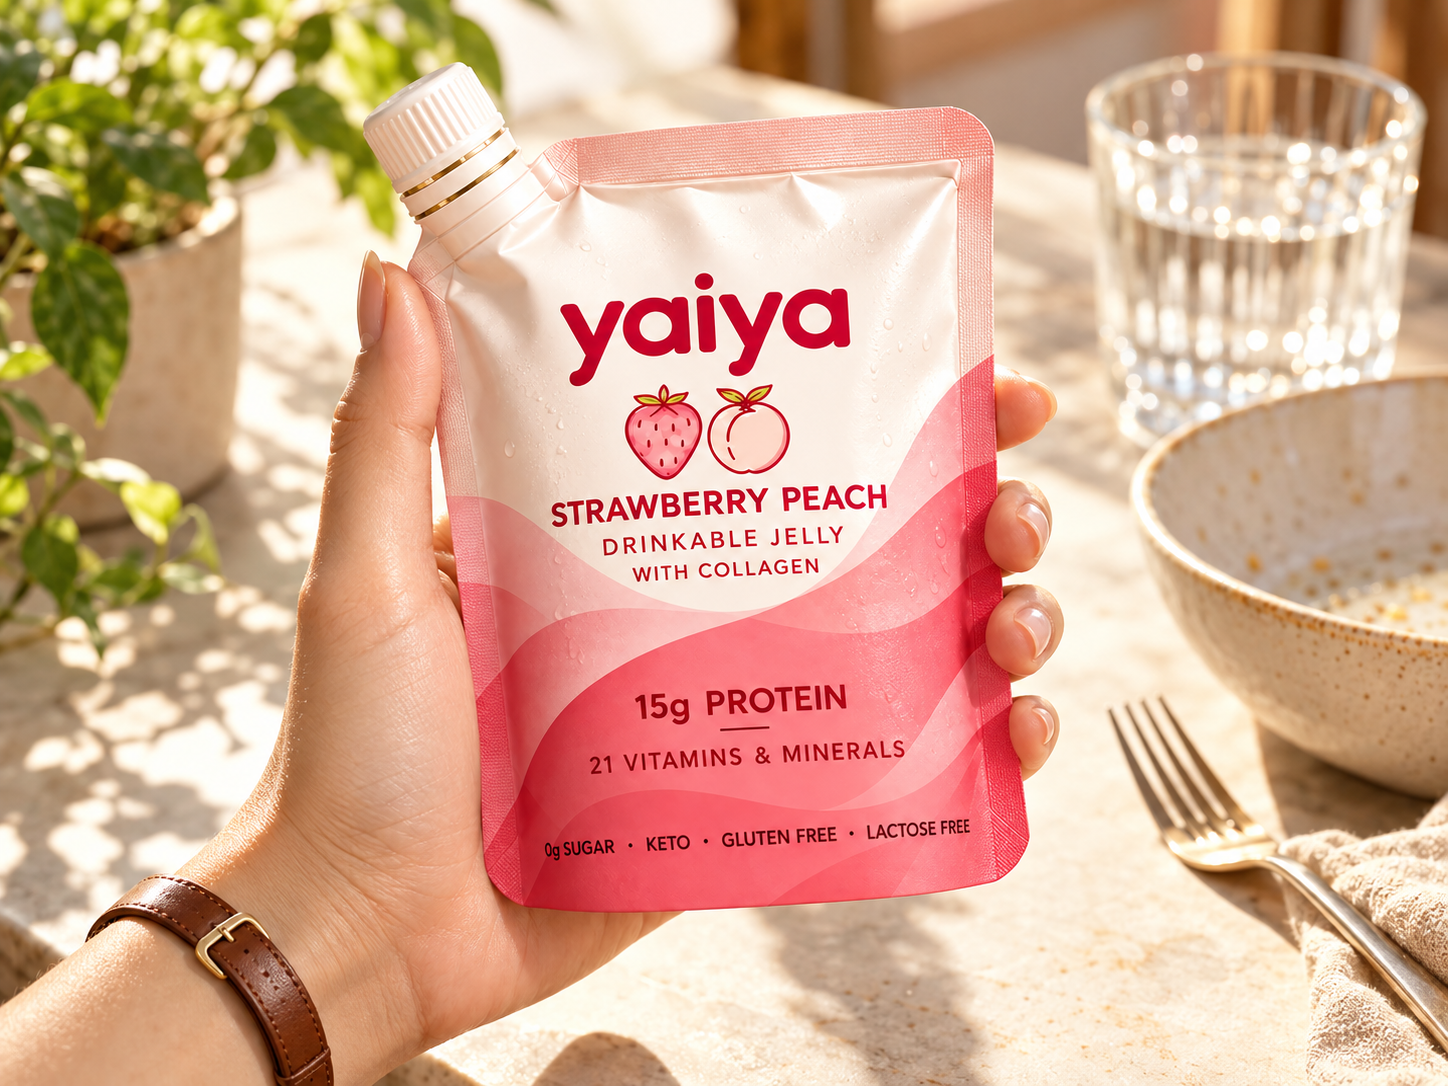
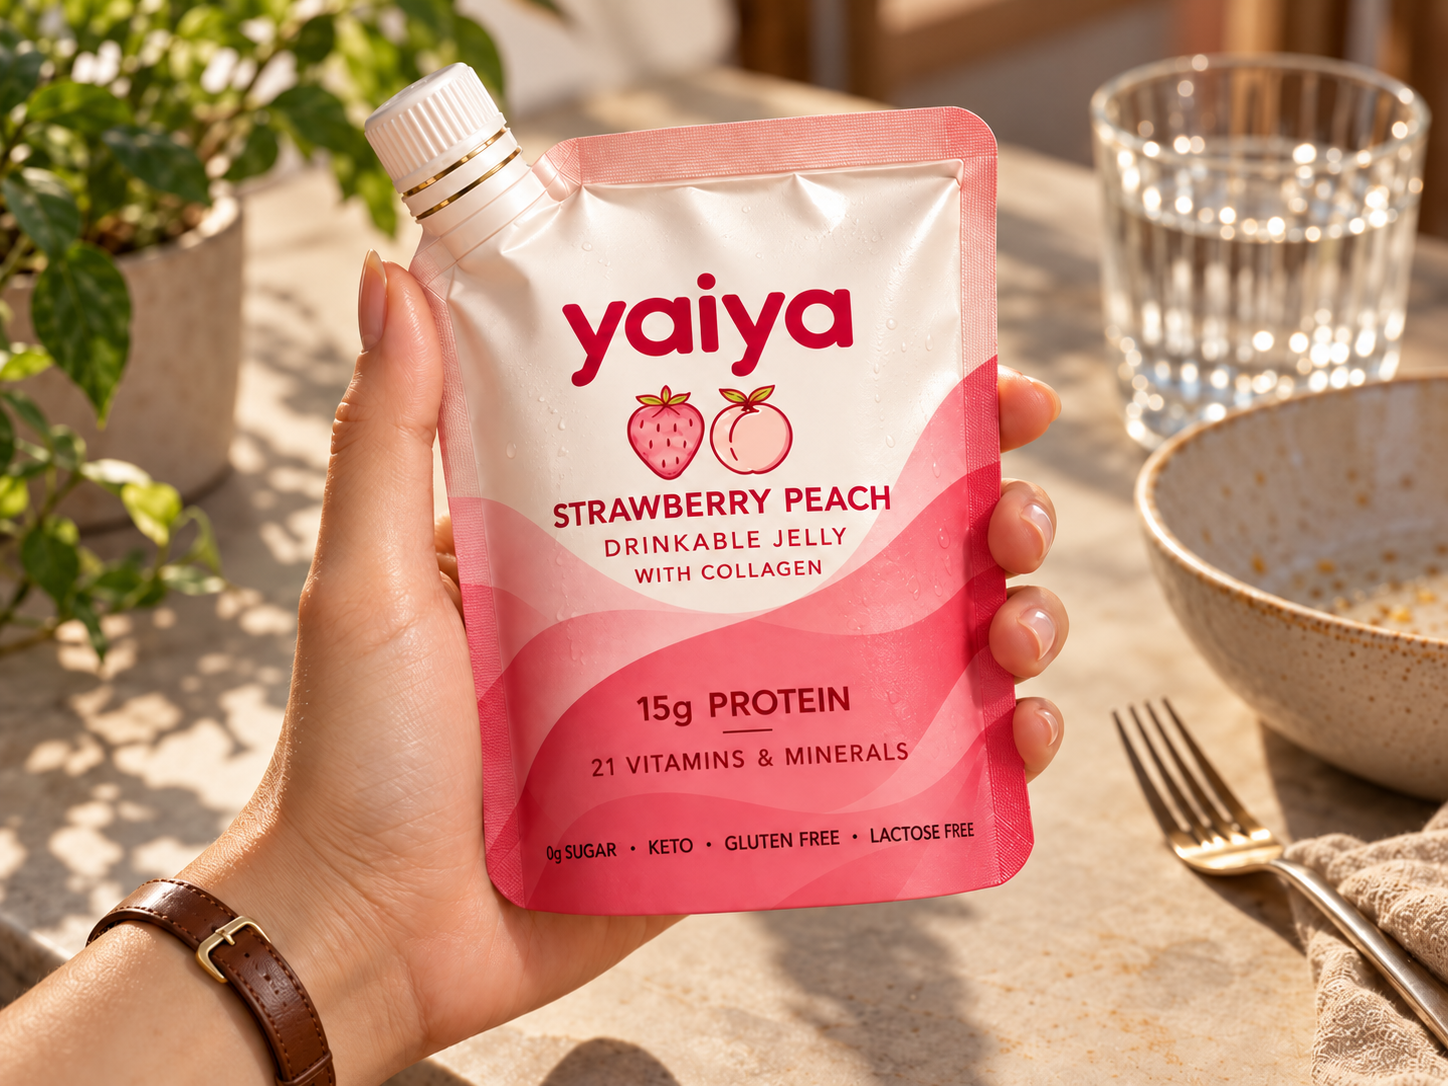
Konjac story: founder's updated between-meals photo

diff --git a/content/site.ts b/content/site.ts
@@ -380,7 +380,7 @@ export const site = {
       note: "a snack that feels like a snack",
       // Founder photo, 13 Oct: lunch is done, the pouch is in hand.
       image: {
-        src: "/images/story-between-meals.jpg",
+        src: "/images/story-between-meals-v2.jpg",
         alt: "A hand holding a Strawberry Peach pouch at a sunny table, beside a finished lunch bowl, a fork and a glass of water.",
       },
     },
